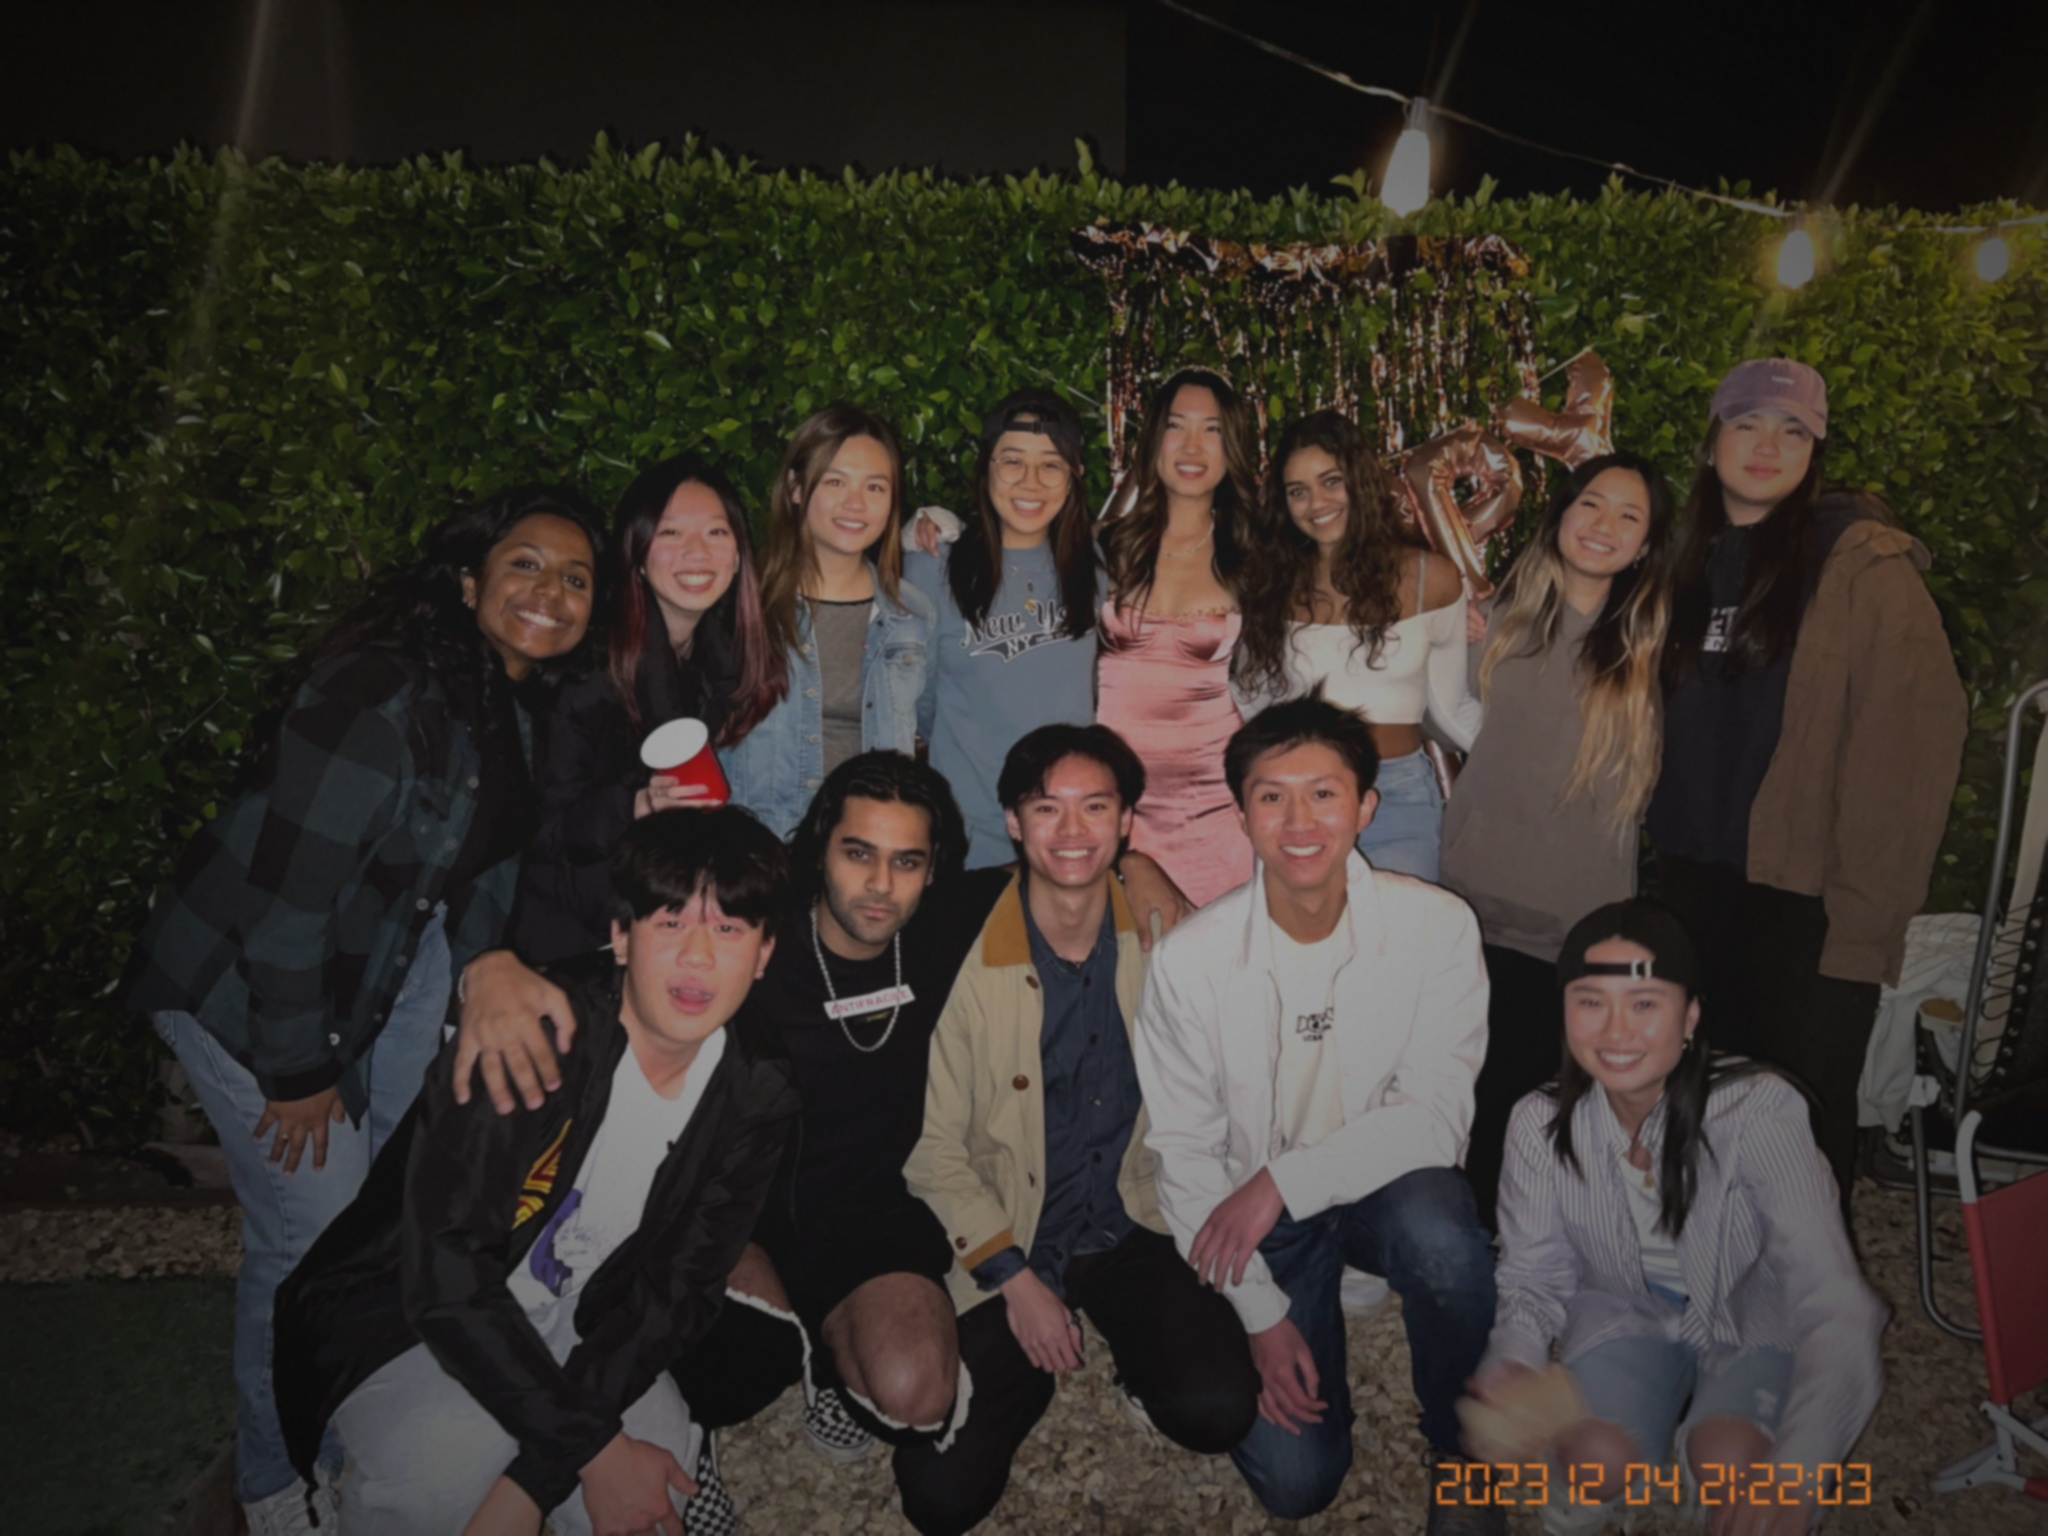
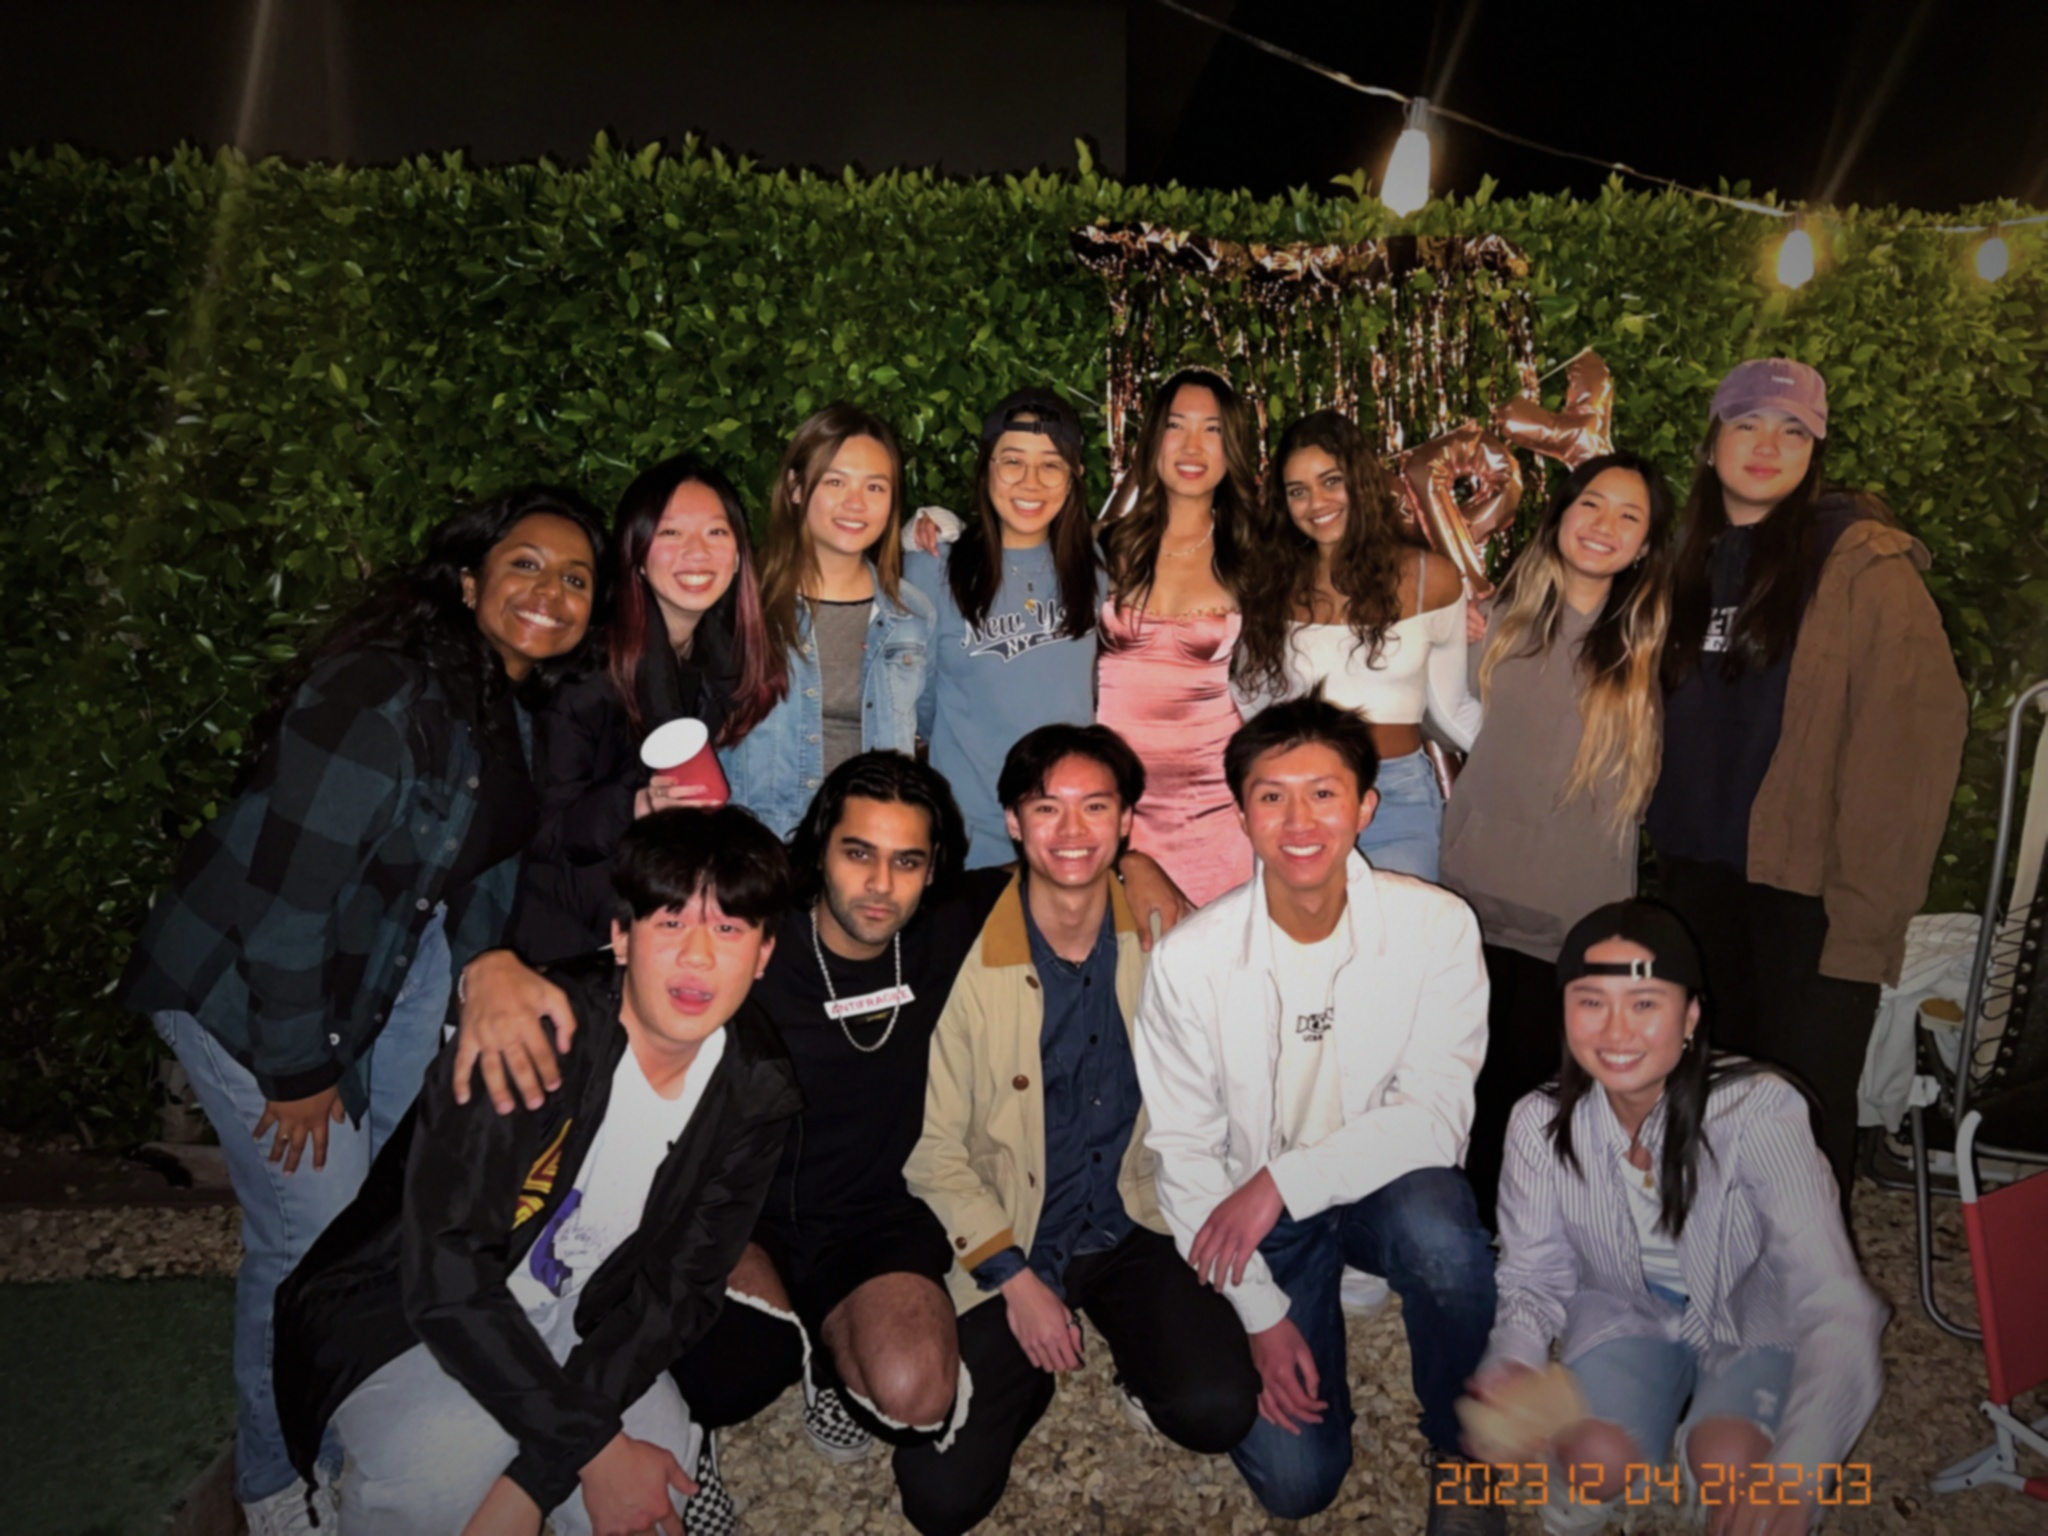
add 90s filter

diff --git a/vint/main.py b/vint/main.py
@@ -11,7 +11,7 @@ def check_and_reformat(datetime_str):
     except ValueError:
         current_timestamp = datetime.datetime.now()
         datetime_str = current_timestamp.strftime('%Y %m %d %H:%M:%S')
-    print(datetime_str)
+
     return datetime_str
 
 def add_timestamp(image, timestamp):
@@ -44,8 +44,8 @@ def add_timestamp(image, timestamp):
     image = cv2.cvtColor(np.array(pil_im), cv2.COLOR_RGBA2BGR)  
 
     return image
-   
-def digital_camera_filter(image, timestamp=None):
+
+def eighties_digital_camera_filter(image, timestamp=None):
     '''
     image: color format bgr
     '''
@@ -89,8 +89,59 @@ def digital_camera_filter(image, timestamp=None):
     image = cv2.addWeighted(image, 1.5, image, -0.5, 0)
 
     return image
+ 
+def nineties_digital_camera_filter(image, timestamp=None):
+    '''
+    image: color format bgr
+    '''
+    
+    # color balance adjustment (warmer)
+    # alpha = weight of first image, beta = weight of second image, gamma = bias (added to final image)
+    image = cv2.addWeighted(image, 1.13, np.full(image.shape, np.array([0, 0, 65]), dtype=image.dtype), 0.07, -13)
 
-image_file = 'johnocap5.jpeg'
+    # contrast and brightness adjustment
+    image = cv2.convertScaleAbs(image, alpha=1.1, beta=0.8)
+    
+    # saturation
+    hsv_image = cv2.cvtColor(image, cv2.COLOR_BGR2HSV)
+    saturation_factor = 1.13  # Increase or decrease saturation (1.0 means no change)
+    hsv_image[:, :, 1] = np.clip(saturation_factor * hsv_image[:, :, 1], 0, 170).astype(np.uint8)
+    image = cv2.cvtColor(hsv_image, cv2.COLOR_HSV2BGR)
+
+    # vignetting
+    rows, cols, _ = image.shape
+    vignette = cv2.getGaussianKernel(rows, rows*0.5) * cv2.getGaussianKernel(cols, cols*0.5).T
+    # creating mask and normalising by using np.linalg function
+    mask = 255 * vignette / np.linalg.norm(vignette) 
+    # applying the mask to each channel in the input image
+    min_mask = 0.33
+    for i in range(3):
+        if mask[0][0] < min_mask:
+            image[:,:,i] = image[:,:,i] * (min_mask/mask[0][0])*mask
+        else:
+            image[:,:,i] = image[:,:,i] * mask
+
+    
+    if not timestamp:
+        current_timestamp = datetime.datetime.now()
+        timestamp = current_timestamp.strftime('%Y %m %d %H:%M:%S')
+    else: 
+        timestamp = check_and_reformat(timestamp)
+
+    image = add_timestamp(image, timestamp)
+
+    # add grain/noise
+    intensity = 5
+    noise = np.random.randint(-intensity, intensity + 1, image.shape)
+    image = np.clip(image + noise, 0, 255).astype(np.uint8)
+
+    # # adjust sharpness
+    image = cv2.GaussianBlur(image, (0, 0), 1.3) # 0.1 or 2.7 or 1.3
+    image = cv2.addWeighted(image, 1.5, image, -0.5, 0)
+
+    return image
+
+image_file = 'callan.jpeg'
 # get the timestamp from the image metadata
 timestamp = Image.open(image_file)._getexif()[36867]
 image = cv2.imread(image_file)
@@ -98,7 +149,7 @@ cv2.imshow("Original Image", image)
 cv2.waitKey(0)
 cv2.destroyAllWindows()
 
-image = digital_camera_filter(image, timestamp)
+image = nineties_digital_camera_filter(image, timestamp)
 
 # display the result
 cv2.imwrite(image_file[:-5]+'digital'+'.jpeg', image)
